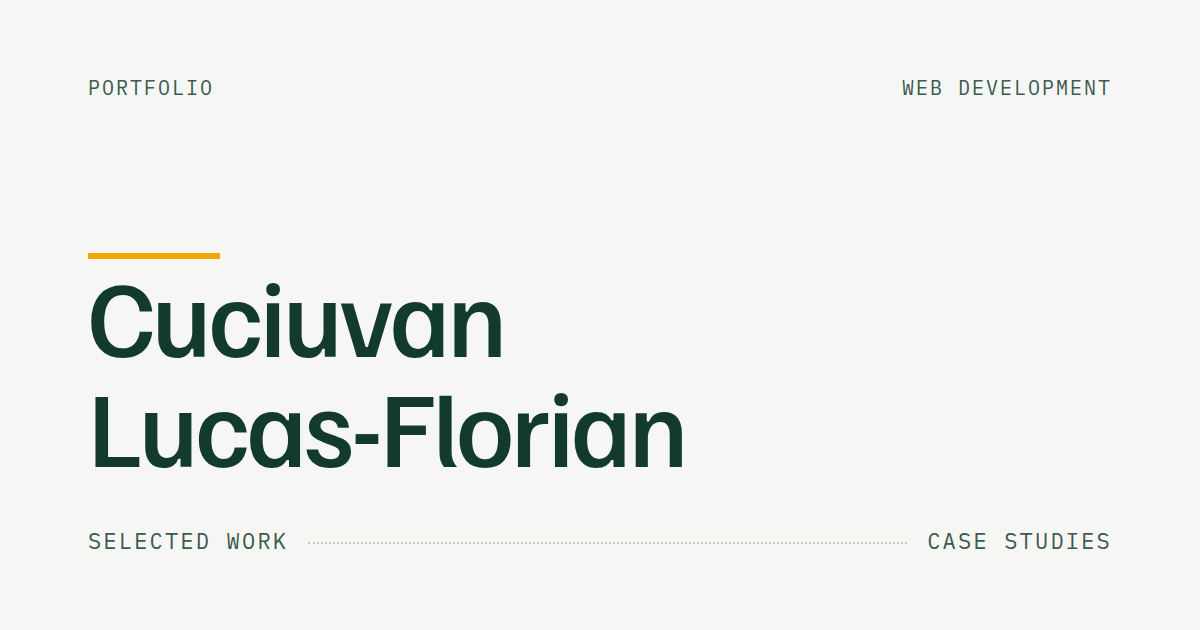
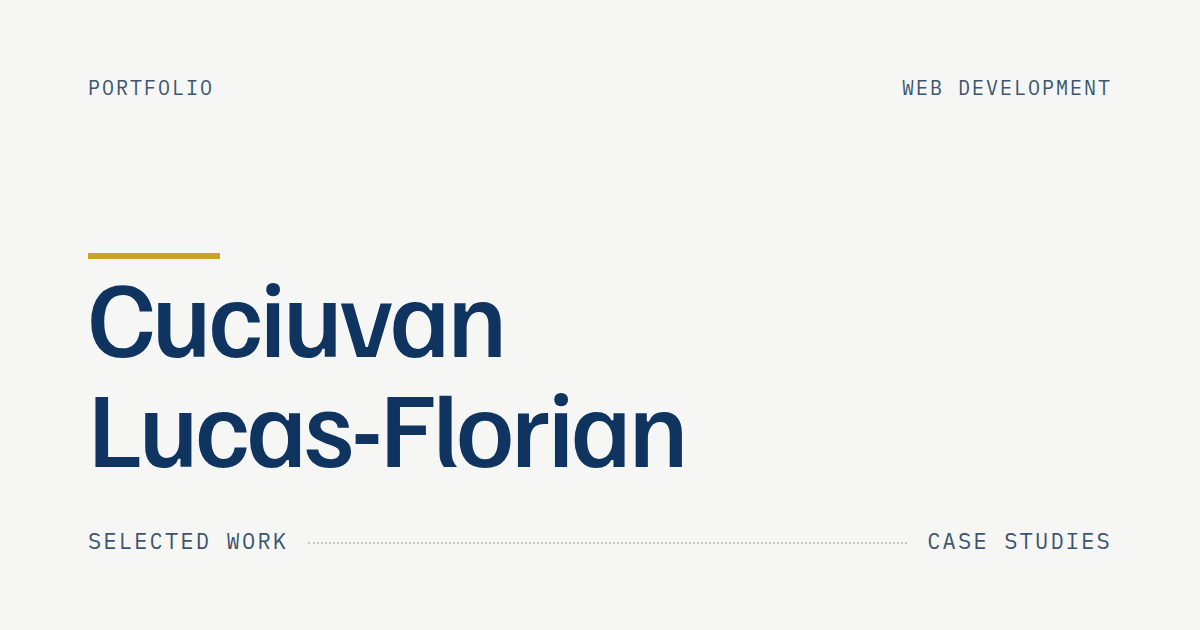
Paleta: albastru-cerneală cu accente aurii
Verdele-sticlă devine albastru, iar amber-ul devine un aur de alamă.

  --ink       #123A2E -> #0F3460   (11.69:1 -> 11.62:1)
  --ink-soft  #3C5A4F -> #3C556F   ( 7.06:1 ->  7.18:1)
  --amber     #F0A500 -> --gold #C9A227

Albastrul e ales ca să aibă exact aceeași adâncime ca verdele pe care îl
înlocuiește, deci toate relațiile de contrast din sistem se transferă
practic neschimbate, nu doar cele verificate punctual. Toate cele 14
perechi trec în continuare; Lighthouse: 100 la toate patru categoriile,
auditul de contrast curat.

Aurul e mai puțin portocaliu decât amber-ul — se citește ca alamă pe
albastru, ceea ce se potrivește cu direcția „firmă de local", și trece
pragul de 3:1 acolo unde chiar contează: ca inel de focus pe banda
închisă (5.17:1). Regula veche rămâne: niciodată text pe fundal deschis.

Tokenul a fost redenumit --amber -> --gold, nu doar schimbat la valoare;
un token care se numește amber și e auriu e o capcană la următoarea
editare.

Hârtia rămâne caldă intenționat: cu albastru rece, un fundal neutru-cald
ține paleta departe de senzația corporate.

Actualizate odată cu paleta: favicon, theme-color pe toate paginile,
imaginea de preview (regenerată din sursa care moștenește styles.css) și
tabelul de culori din PROJECT.md. Curățat și un meta robots duplicat din
șablon, rămas de la reconstrucția head-urilor.

Claude-Session: https://claude.ai/code/session_01JQmWh2DxC29gRRKSTBzTDn

diff --git a/assets/styles.css b/assets/styles.css
@@ -102,11 +102,11 @@
   color-scheme: light;
 
   /* Culori */
-  --ink: #123A2E;
-  --ink-soft: #3C5A4F;
+  --ink: #0F3460;
+  --ink-soft: #3C556F;
   --paper: #F6F7F4;
   --paper-warm: #EEEFE9;
-  --amber: #F0A500;
+  --gold: #C9A227;
   --stone: #C9C6BC;
   /* Varianta lizibilă a lui stone. stone pur dă 1.59:1 pe hârtie — bun
      pentru hairlines și puncte decorative, prea slab oriunde un semn
@@ -139,10 +139,10 @@
   --content-max: 68rem;
   --hairline: 1px solid var(--stone);
 
-  /* Inelul de focus. Amber pe fundal deschis dă 1.94:1 — sub pragul de
+  /* Inelul de focus. Aurul pe fundal deschis dă 2.25:1 — sub pragul de
      3:1 cerut pentru indicatori non-text — deci pe hârtie folosim ink
-     (11.69:1). Pe banda închisă ink ar fi invizibil, așa că acolo
-     tokenul se inversează în amber (6.04:1 pe ink) și accentul de firmă
+     (11.62:1). Pe banda închisă ink ar fi invizibil, așa că acolo
+     tokenul se inversează în aur (5.17:1 pe ink) și accentul de firmă
      rămâne prezent exact unde trece contrastul. */
   --focus-ring: var(--ink);
 }
@@ -329,14 +329,14 @@ button:focus-visible,
 
 .site-nav a:hover,
 .site-nav a[aria-current="page"] {
-  border-bottom-color: var(--amber);
+  border-bottom-color: var(--gold);
 }
 
-/* ---------- Footer (banda închisă pe verde) ---------- */
+/* ---------- Footer (banda închisă pe albastru) ---------- */
 .site-footer {
   background: var(--ink);
   color: var(--paper);
-  --focus-ring: var(--amber);
+  --focus-ring: var(--gold);
 }
 
 .site-footer a {
@@ -346,7 +346,7 @@ button:focus-visible,
 }
 
 .site-footer a:hover {
-  text-decoration-color: var(--amber);
+  text-decoration-color: var(--gold);
 }
 
 .site-footer__inner {
@@ -429,7 +429,7 @@ a.menu-line:hover .menu-line__name {
 }
 
 a.menu-line:hover .menu-line__dots {
-  border-bottom-color: var(--amber);
+  border-bottom-color: var(--gold);
 }
 
 /* ---------- Hero ---------- */
@@ -507,7 +507,7 @@ a.menu-line:hover .menu-line__dots {
 }
 
 .proof-card:hover .proof-card__media {
-  border-color: var(--amber);
+  border-color: var(--gold);
 }
 
 .proof-card:hover .menu-line__name {
@@ -515,7 +515,7 @@ a.menu-line:hover .menu-line__dots {
 }
 
 .proof-card:hover .menu-line__dots {
-  border-bottom-color: var(--amber);
+  border-bottom-color: var(--gold);
 }
 
 /* ---------- Servicii ---------- */
@@ -548,7 +548,7 @@ a.menu-line:hover .menu-line__dots {
   text-transform: uppercase;
   letter-spacing: 0.1em;
   text-decoration: none;
-  border-bottom: 1px solid var(--amber);
+  border-bottom: 1px solid var(--gold);
   padding-bottom: 0.15em;
 }
 
@@ -595,7 +595,7 @@ img.proof-card__media {
   top: 0.65em;
   width: 5px;
   height: 5px;
-  background: var(--amber);
+  background: var(--gold);
 }
 
 .case-body ul:not(.stack-list) li + li {
@@ -621,9 +621,9 @@ img.proof-card__media {
   margin: 0;
 }
 
-/* ---------- TODO — marcaj vizibil, amber doar ca linie ---------- */
+/* ---------- TODO — marcaj vizibil, aurul doar ca linie ---------- */
 .todo {
-  border-left: 3px solid var(--amber);
+  border-left: 3px solid var(--gold);
   background: var(--paper-warm);
   padding: var(--space-sm) var(--space-md);
   color: var(--ink-soft);
@@ -640,7 +640,7 @@ img.proof-card__media {
 }
 
 .todo-inline {
-  border-bottom: 1px dotted var(--amber);
+  border-bottom: 1px dotted var(--gold);
   font-style: normal;
 }
 

diff --git a/work/_template/index.html b/work/_template/index.html
@@ -9,13 +9,12 @@
 <head>
   <meta charset="utf-8">
   <meta name="viewport" content="width=device-width, initial-scale=1">
-  <meta name="robots" content="noindex">
   <title>TODO: Project name — Cuciuvan Lucas-Florian</title>
   <meta name="description" content="TODO: meta description.">
   <meta name="robots" content="noindex">
 
   <link rel="icon" href="/assets/favicon.svg" type="image/svg+xml">
-  <meta name="theme-color" content="#123A2E">
+  <meta name="theme-color" content="#0F3460">
 
   <!-- Fonturi self-hostate: fără request extern, fără stylesheet care blochează
        randarea. Preîncărcăm doar cele două fețe de pe primul ecran. -->

diff --git a/work/restaurant-pizzerie/index.html b/work/restaurant-pizzerie/index.html
@@ -8,7 +8,7 @@
   <link rel="canonical" href="https://TODO-domain.netlify.app/work/restaurant-pizzerie/">
 
   <link rel="icon" href="/assets/favicon.svg" type="image/svg+xml">
-  <meta name="theme-color" content="#123A2E">
+  <meta name="theme-color" content="#0F3460">
 
   <!-- Fonturi self-hostate: fără request extern, fără stylesheet care blochează
        randarea. Preîncărcăm doar cele două fețe de pe primul ecran. -->

diff --git a/work/cuttracker/index.html b/work/cuttracker/index.html
@@ -8,7 +8,7 @@
   <link rel="canonical" href="https://TODO-domain.netlify.app/work/cuttracker/">
 
   <link rel="icon" href="/assets/favicon.svg" type="image/svg+xml">
-  <meta name="theme-color" content="#123A2E">
+  <meta name="theme-color" content="#0F3460">
 
   <!-- Fonturi self-hostate: fără request extern, fără stylesheet care blochează
        randarea. Preîncărcăm doar cele două fețe de pe primul ecran. -->

diff --git a/work/liceu/index.html b/work/liceu/index.html
@@ -8,7 +8,7 @@
   <link rel="canonical" href="https://TODO-domain.netlify.app/work/liceu/">
 
   <link rel="icon" href="/assets/favicon.svg" type="image/svg+xml">
-  <meta name="theme-color" content="#123A2E">
+  <meta name="theme-color" content="#0F3460">
 
   <!-- Fonturi self-hostate: fără request extern, fără stylesheet care blochează
        randarea. Preîncărcăm doar cele două fețe de pe primul ecran. -->

diff --git a/about/index.html b/about/index.html
@@ -8,7 +8,7 @@
   <link rel="canonical" href="https://TODO-domain.netlify.app/about/">
 
   <link rel="icon" href="/assets/favicon.svg" type="image/svg+xml">
-  <meta name="theme-color" content="#123A2E">
+  <meta name="theme-color" content="#0F3460">
 
   <!-- Fonturi self-hostate: fără request extern, fără stylesheet care blochează
        randarea. Preîncărcăm doar cele două fețe de pe primul ecran. -->

diff --git a/work/index.html b/work/index.html
@@ -8,7 +8,7 @@
   <link rel="canonical" href="https://TODO-domain.netlify.app/work/">
 
   <link rel="icon" href="/assets/favicon.svg" type="image/svg+xml">
-  <meta name="theme-color" content="#123A2E">
+  <meta name="theme-color" content="#0F3460">
 
   <!-- Fonturi self-hostate: fără request extern, fără stylesheet care blochează
        randarea. Preîncărcăm doar cele două fețe de pe primul ecran. -->

diff --git a/index.html b/index.html
@@ -8,7 +8,7 @@
   <link rel="canonical" href="https://TODO-domain.netlify.app/">
 
   <link rel="icon" href="/assets/favicon.svg" type="image/svg+xml">
-  <meta name="theme-color" content="#123A2E">
+  <meta name="theme-color" content="#0F3460">
 
   <!-- Fonturi self-hostate: fără request extern, fără stylesheet care blochează
        randarea. Preîncărcăm doar cele două fețe de pe primul ecran. -->

diff --git a/assets/og-source.html b/assets/og-source.html
@@ -60,7 +60,7 @@
     border-bottom: 2px dotted var(--stone);
     transform: translateY(-0.28em);
   }
-  .og-rule { height: 6px; background: var(--amber); width: 132px; }
+  .og-rule { height: 6px; background: var(--gold); width: 132px; }
 </style>
 </head>
 <body>

diff --git a/PROJECT.md b/PROJECT.md
@@ -201,6 +201,24 @@ Eu aleg una, apoi se construiește exact pe ea.
 **Aleasă: Direcția A — „Menu".** Tipografie de meniu tipărit și firmă de
 local.
 
+Paleta finală, după trecerea de la verde la albastru cu accente aurii.
+Sursa de adevăr rămâne `assets/styles.css`; raportul e față de hârtie,
+sau față de `--ink` acolo unde e marcat:
+
+| token          | hex       | rol                                    | contrast |
+|----------------|-----------|----------------------------------------|----------|
+| `--ink`        | `#0F3460` | albastru-cerneală, text principal      | 11.62:1  |
+| `--ink-soft`   | `#3C556F` | text secundar                          | 7.18:1   |
+| `--paper`      | `#F6F7F4` | fundal                                 | —        |
+| `--paper-warm` | `#EEEFE9` | bandă alternativă (cald, intenționat)  | —        |
+| `--gold`       | `#C9A227` | accent de firmă — doar linii și marcaje | 5.17:1 pe ink |
+| `--stone`      | `#C9C6BC` | hairlines, puncte decorative           | decorativ |
+| `--stone-deep` | `#7F7B70` | stone lizibil, unde un semn se citește | 3.93:1   |
+
+Regula despre accent rămâne neschimbată: aurul nu se folosește niciodată
+ca text pe fundal deschis (2.25:1, nu trece). Pe banda închisă trece, și
+acolo devine inelul de focus.
+
 ### Pragul de calitate — nenegociabil
 
 - Responsive până la 360px lățime, testat, nu presupus
